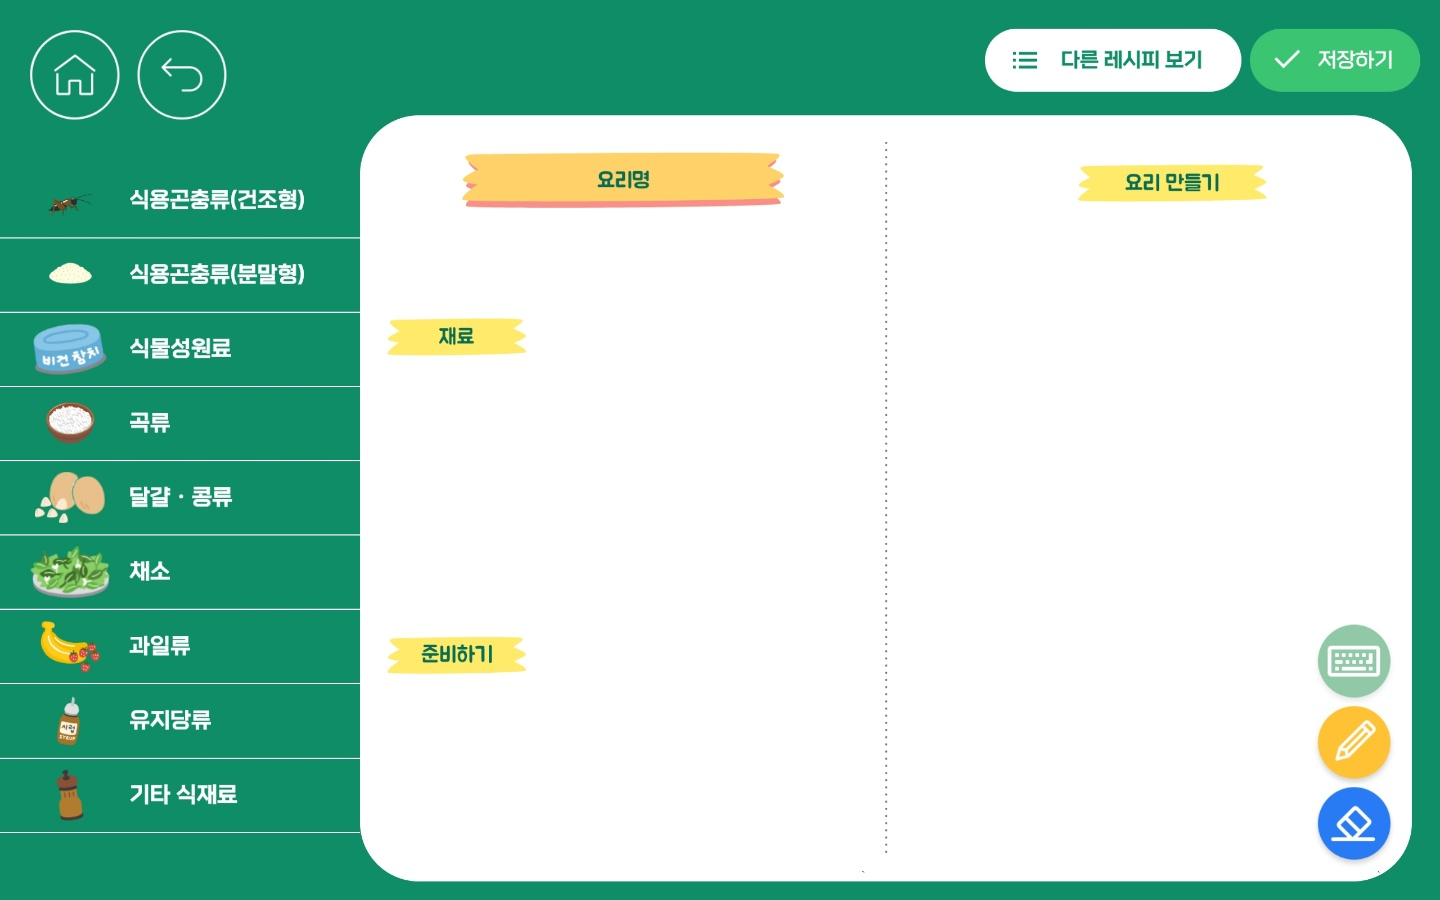
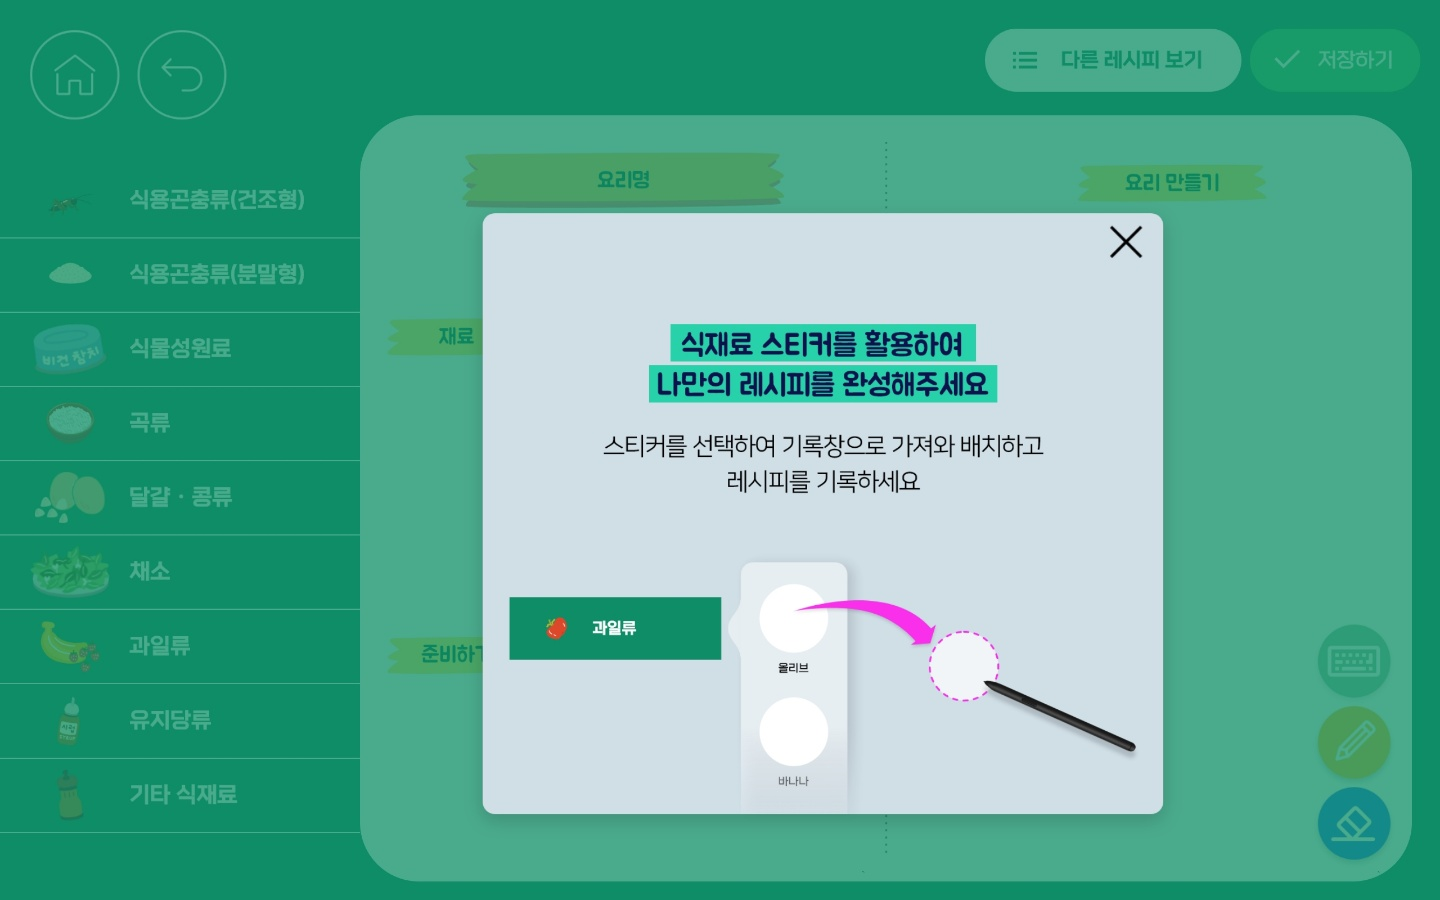
receiptpage 수정사항 수정

diff --git a/src/pages/receipt/receipt.ts b/src/pages/receipt/receipt.ts
@@ -11,6 +11,7 @@ import { Screenshot } from '@ionic-native/screenshot/ngx';
 import { UtilProvider } from '../../providers/util/util';
 import { ExpansionRecipePage } from '../expansion-recipe/expansion-recipe';
 import * as htmlToImage from 'html-to-image';
+import { C } from '@angular/core/src/render3';
 
 /**
  * Generated class for the ReceiptPage page.
@@ -35,7 +36,7 @@ export class ReceiptPage {
 
   // left_info 이미지 갯수
   left_info_cnt = 1;
-  left_infos = [0, 1, 3, 3, 2, 4, 3, 1, 2, 2, 1];
+  left_infos = [0, 1, 4, 4, 3, 5, 4, 1, 3, 3, 1];
   left_infos_position = []
   left_infos_url_list = [];
 
@@ -102,7 +103,15 @@ export class ReceiptPage {
 
   // 1 레시피 페이지, 2 자작레시피 페이지
   draw_z_index = 0;
+
+  // 가이드팝업 초기에는 false, 닫으면 true
+  guide_popup_flag = false;
   // draw_page_ready_flag = false;
+
+  // canvas 펜 색
+  canvas_col_rgb:string = "0,0,0,"
+  canvas_col_active:string = "black";
+  canvas_col_opacity:string = "1";
 
   constructor(public navCtrl: NavController, public navParams: NavParams, public modalCtrl: ModalController,
   public recpv: ReceiptsProvider,
@@ -138,32 +147,43 @@ export class ReceiptPage {
   }
 
   // 295.47
+  changing_left_info_flag = false;
   chenage_left_info()
   {
-    if(this.left_infos[this.index] == 1) return;
-    if(this.left_info_cnt < this.left_infos[this.index])
-    {
-      for(var i = 0; i < this.left_infos_position.length; i++)
-      {
-        this.left_infos_position[i] -= 100;
-        document.getElementById('general_material'+(i+1)).style.transition = "0.5s";
-        document.getElementById('general_material'+(i+1)).style.top = this.left_infos_position[i] + "%";
+    if(this.changing_left_info_flag == true) return;
 
-      }
+    this.changing_left_info_flag = true;
+    setTimeout(() => {
+      this.changing_left_info_flag = false;
+    }, 500);
+
+    if(this.left_infos[this.index] == 1) return;
+    for(var i = 0; i < this.left_infos_position.length; i++)
+    {
+      this.left_infos_position[i] -= 100;
+      document.getElementById('general_material'+(i+1)).style.transition = "0.5s";
+      document.getElementById('general_material'+(i+1)).style.top = this.left_infos_position[i] + "%";
+
+    }
+    console.log(this.left_info_cnt, this.left_infos[this.index] - 1)
+    if(this.left_info_cnt < this.left_infos[this.index] - 1){
       this.left_info_cnt++;
     }
     else
     {
-      for(var i = 0; i < this.left_infos_position.length; i++)
-      {
-        this.left_infos_position[i] += 100 * (this.left_infos[this.index] - 1);
-        document.getElementById('general_material'+(i+1)).style.transition = "0.5s";
-        document.getElementById('general_material'+(i+1)).style.top = this.left_infos_position[i] + "%";
-      }
+      setTimeout(() => {
+        for(var i = 0; i < this.left_infos_position.length; i++)
+        {
+          this.left_infos_position[i] += 100 * (this.left_infos[this.index] - 1);
+          document.getElementById('general_material'+(i+1)).style.transition = "0s";
+          document.getElementById('general_material'+(i+1)).style.top = this.left_infos_position[i] + "%";
+        }
+      }, 500);
       this.left_info_cnt = 1;
     }
   }
 
+  induction_arrow_interval;
   ionViewDidLoad() {
     console.log('ionViewDidLoad ReceiptPage');
 
@@ -174,6 +194,15 @@ export class ReceiptPage {
     // .fromTo('transform', 'translateX(-200%)', 'translateX(-100%)');
     this.ready_receipt_page();
     this.ready_draw_page();
+
+    this.induction_arrow_interval = setInterval(()=>{
+      document.getElementById("induction-arrow").style.transition = "1s";
+      document.getElementById("induction-arrow").style.transform = "translate(-150%, -50%)";
+      setTimeout(() => {
+        document.getElementById("induction-arrow").style.transition = "0.0s";
+        document.getElementById("induction-arrow").style.transform = "translate(-100%, -50%)";
+      }, 500);
+    },1000)
   }
 
   ready_receipt_page()
@@ -214,6 +243,17 @@ export class ReceiptPage {
     });
   }
 
+  async append_clone_node(el)
+  {
+    var id = el.id.toString().split('popup-')[1].split('-1')[0];
+    console.log(id);
+    var clone_node = document.getElementById("popup-"+id+'-1').cloneNode(true);
+    if(document.getElementById("food-popup-div-"+id).firstElementChild){
+      await document.getElementById("food-popup-div-"+id).firstElementChild.remove();
+    }
+    document.getElementById("food-popup-div-"+id).append(clone_node);
+  }
+
   ready_draw_page()
   {
     for (let i = 1; i <= 58; i++) { this.q1.push({ value: 'Write new Post', color: 'primary' }); }
@@ -223,7 +263,11 @@ export class ReceiptPage {
       this.dragulaService.drag('bag').subscribe(async ({ name, el, source }) => {
         el.setAttribute('color', 'danger');
         console.log("asdasd");
+
+        // this.append_clone_node(el);
+
         let ingredient = document.getElementById("white-board-ingredient");
+        console.log(ingredient.childNodes.length);
         if(ingredient.childNodes.length > 10)
         {
           alert("최대 10개까지 입니다.")
@@ -241,10 +285,13 @@ export class ReceiptPage {
         })
       });
 
-      this.dropSub = this.dragulaService.dropModel('bag').subscribe(({ item, el }) => {
+      this.dropSub = this.dragulaService.dropModel('bag').subscribe(async ({ item, el }) => {
         console.log("qweqwe");
         console.log(item);
         console.log(el);
+
+        this.append_clone_node(el);
+
         let ingredient = document.getElementById("white-board-ingredient");
         let pressTimer = null;
         let targetClass = el.classList[0];
@@ -323,7 +370,10 @@ export class ReceiptPage {
   back_button()
   {
     if(this.draw_z_index == 0)
+    {
+      clearInterval(this.induction_arrow_interval);
       this.navCtrl.pop();
+    }
     else
     {
       this.draw_z_index = 0;
@@ -552,34 +602,32 @@ export class ReceiptPage {
     document.getElementById("col-green").classList.remove('col-active');
     document.getElementById("col-red").classList.remove('col-active');
     document.getElementById("col-yellow").classList.remove('col-active');
+    this.canvas_col_active = col;
     switch(col)
     {
       case 'black':
-        this.context[0].strokeStyle = '#000000';
-        this.context[1].strokeStyle = '#000000';
+        this.canvas_col_rgb = "0,0,0,";
         document.getElementById("col-black").classList.add('col-active');
         break;
       case 'blue':
-        this.context[0].strokeStyle = '#0000ff';
-        this.context[1].strokeStyle = '#0000ff';
+        this.canvas_col_rgb = "0,0,255,";
         document.getElementById("col-blue").classList.add('col-active');
         break;
       case 'green':
-        this.context[0].strokeStyle = '#00ff00';
-        this.context[1].strokeStyle = '#00ff00';
+        this.canvas_col_rgb = "0,255,0,";
         document.getElementById("col-green").classList.add('col-active');
         break;
       case 'red':
-        this.context[0].strokeStyle = '#ff0000';
-        this.context[1].strokeStyle = '#ff0000';
+        this.canvas_col_rgb = "255,0,0,";
         document.getElementById("col-red").classList.add('col-active');
         break;
       case 'yellow':
-        this.context[0].strokeStyle = '#ffff00';
-        this.context[1].strokeStyle = '#ffff00';
+        this.canvas_col_rgb = "255,255,0,"
         document.getElementById("col-yellow").classList.add('col-active');
         break;
     }
+    this.context[0].strokeStyle =
+    this.context[1].strokeStyle = "rgba(" + this.canvas_col_rgb + this.canvas_col_opacity + ")";
   }
 
   change_pen(pen)
@@ -590,19 +638,25 @@ export class ReceiptPage {
     switch(pen)
     {
       case '01':
+        this.canvas_col_opacity = "1";
         this.context[0].lineWidth = 1;
         this.context[1].lineWidth = 1;
         document.getElementById("pen-01").classList.add('pen-active');
+        this.change_color(this.canvas_col_active)
         break;
       case '02':
+        this.canvas_col_opacity = "1";
         this.context[0].lineWidth = 3;
-        this.context[1].lineWidth = 5;
+        this.context[1].lineWidth = 3;
         document.getElementById("pen-02").classList.add('pen-active');
+        this.change_color(this.canvas_col_active)
         break;
       case '03':
+        this.canvas_col_opacity = "0.05";
         this.context[0].lineWidth = 7;
         this.context[1].lineWidth = 7;
         document.getElementById("pen-03").classList.add('pen-active');
+        this.change_color(this.canvas_col_active)
         break;
     }
   }
@@ -639,6 +693,7 @@ export class ReceiptPage {
     })
     .then((image)=>{
       this.save_modal_close();
+      this.util.present_loading("Saving...");
       this.util.uploadImage("image", new Date().toISOString(), image, (result) => {
         console.log(result);
         if(result)
@@ -703,20 +758,20 @@ export class ReceiptPage {
     doc.style.display = "none";
   }
 
-  async TaskScreenShot() : Promise<void> {
-    // this.save_modal_open();
-    try
-    {
-      let response = await this.screenshot.save();
-      var uri = await this.screenshot.URI();
-      let fileName = response.filePath.split("/")[5];
-      this.util.uploadImage("image", fileName, uri, () => {});
-    }
-    catch(err)
-    {
-      console.log(err);
-    }
-  }
+  // async TaskScreenShot() : Promise<void> {
+  //   // this.save_modal_open();
+  //   try
+  //   {
+  //     let response = await this.screenshot.save();
+  //     var uri = await this.screenshot.URI();
+  //     let fileName = response.filePath.split("/")[5];
+  //     this.util.uploadImage("image", fileName, uri, () => {});
+  //   }
+  //   catch(err)
+  //   {
+  //     console.log(err);
+  //   }
+  // }
 
   /** 팝업 닫는 함수. */
   guidePopueCloseButton() : void {
@@ -728,6 +783,8 @@ export class ReceiptPage {
     guidePopup.style.display = "none";
     guidePopupBg.style.display = "none";
     guidePopupClose.style.display = "none";
+
+    this.guide_popup_flag = true;
   }
 
   open_recipe(item)

diff --git a/src/pages/receipt/receipt.scss b/src/pages/receipt/receipt.scss
@@ -1,11 +1,17 @@
 page-receipt {
+  @font-face {
+    font-family: 'GongGothicMedium';
+    src: url('https://cdn.jsdelivr.net/gh/projectnoonnu/noonfonts_20-10@1.0/GongGothicMedium.woff') format('woff');
+    font-weight: normal;
+    font-style: normal;
+  }
 
   .recipe-content
   {
     z-index: 10;
     .scroll-content
     {
-      overflow-y:  hidden;
+      overflow-y: hidden;
       display: flex;
     }
   }
@@ -135,7 +141,6 @@ page-receipt {
       width: 4%;
       position: absolute;
       top: 50%;
-    // transform: translateY(-50%);
       transform: translate(-100%, -50%);
     }
     div
@@ -337,10 +342,10 @@ page-receipt {
       top: 14%;
       left: 2%;
       text-align: center;
-      img
-      {
-        max-width: 90%;
-      }
+      // img
+      // {
+      //   max-width: 90%;
+      // }
 
       input
       {
@@ -350,6 +355,8 @@ page-receipt {
         font-size: 60px;
         border: none;
         color: rgb(17,96,69);
+        font-family: "GongGothicMedium";
+        font-weight: 600;
       }
     }
 
@@ -407,6 +414,9 @@ page-receipt {
         height: 100%;
         border: none;
         background-color: transparent;
+
+        font-family: "GongGothicMedium";
+        font-weight: 300;
       }
     }
 
@@ -427,6 +437,9 @@ page-receipt {
         height: 100%;
         border: none;
         background-color: transparent;
+
+        font-family: "GongGothicMedium";
+        font-weight: 300;
       }
     }
   }

diff --git a/src/pages/receipt/receipt.html b/src/pages/receipt/receipt.html
@@ -64,7 +64,8 @@
     <img id="induction-arrow" class="induction-arrow" src="{{root_image_path}}aaa.png" alt="">
     <img class="recipe_bar" src="{{root_image_path}}00_btn/Recipe Bar.png" alt="">
     <div id="modal_page">
-      <img src="../../assets/imgs/대체식품/drawpage_default.jpeg" alt="">
+      <img *ngIf="guide_popup_flag == false" src="../../assets/imgs/대체식품/drawpage_default.jpeg" alt="">
+      <img *ngIf="guide_popup_flag == true" src="../../assets/imgs/대체식품/drawpage_default2.jpeg" alt="">
     </div>
   </div>
 </ion-content>
@@ -97,7 +98,7 @@
     <img id="food-popup-bg" class="food-popup-bg" src="assets/imgs/대체식품/03_Planning/01_menu btn/Food Popup_bg.png" alt="">
 
     <div id="food-popup-div" class="food-popup-div">
-      <div *ngFor ="let i of targetList.value; let j = index;" dragula="bag" [(dragulaModel)]="q1" >
+      <div id="food-popup-div-{{j+1}}" *ngFor ="let i of targetList.value; let j = index;" dragula="bag" [(dragulaModel)]="q1" >
         <img id="popup-{{targetList.key}}-{{j + 1}}" class="popup-{{targetList.key}}-{{j + 1}}" src="{{i}}" alt="">
       </div>
     </div>

diff --git a/src/app/app.scss b/src/app/app.scss
@@ -64,13 +64,8 @@
   min-width: 45%;
   display: block;
   text-align: center;
-  background: #FFFFFF 0% 0% no-repeat padding-box;
-  box-shadow: 0px 30px 50px #0000004D;
   border: 3px solid #0E8D66;
-  border-radius: 20px;
-  opacity: 1;
-  padding: 0;
-  padding-left: 35px;
+  border-radius: 20px !important;
   transform: translateX(28%) !important;
   .loading-content
   {

diff --git a/src/providers/util/util.ts b/src/providers/util/util.ts
@@ -88,7 +88,7 @@ export class UtilProvider {
     var root = this.mypicref.child(dir).child(key)
     console.log(root);
 
-    this.present_loading("사진 저장중...");
+    // this.present_loading("사진 저장중...");
     this.encodeImageUri(imageURI, (image64)=>{
       console.log(image64);
       if(imageURI != image64)
